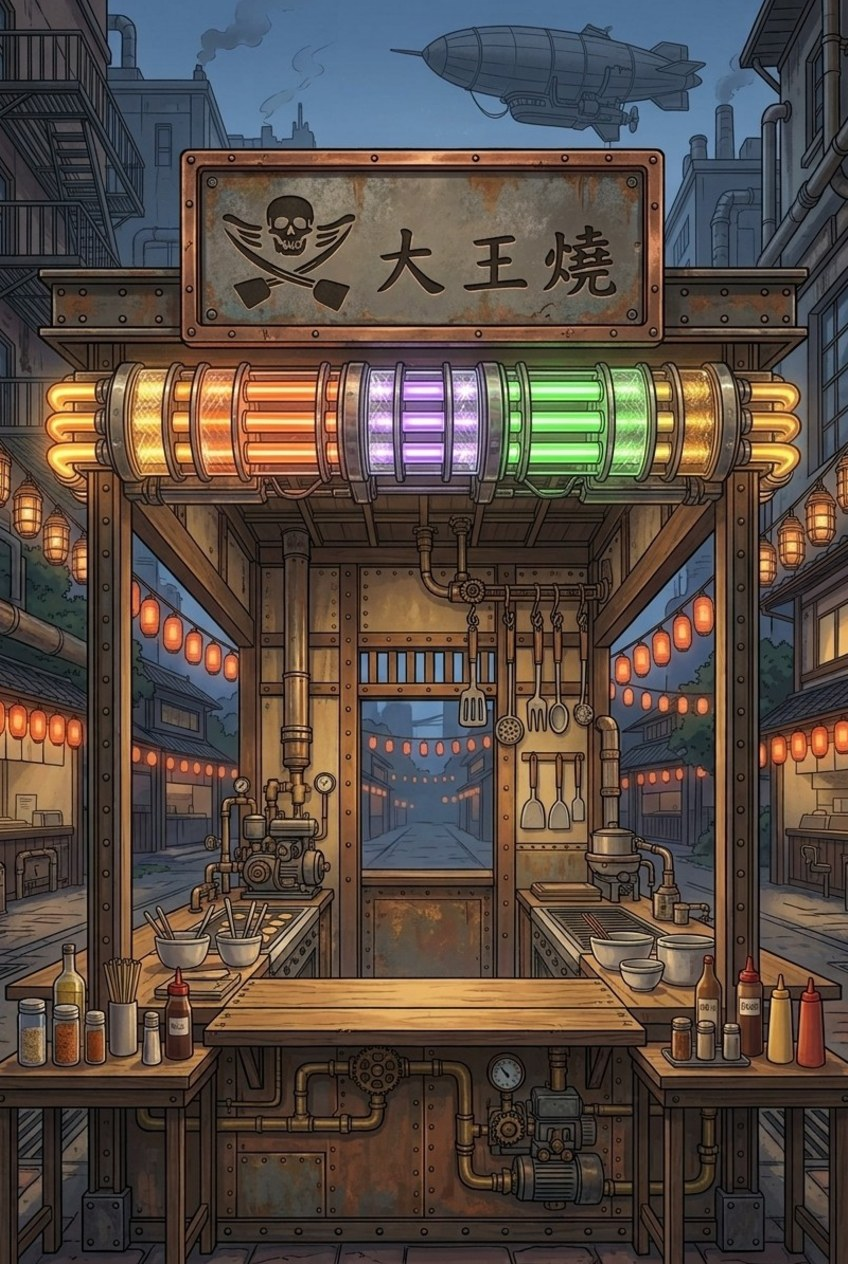
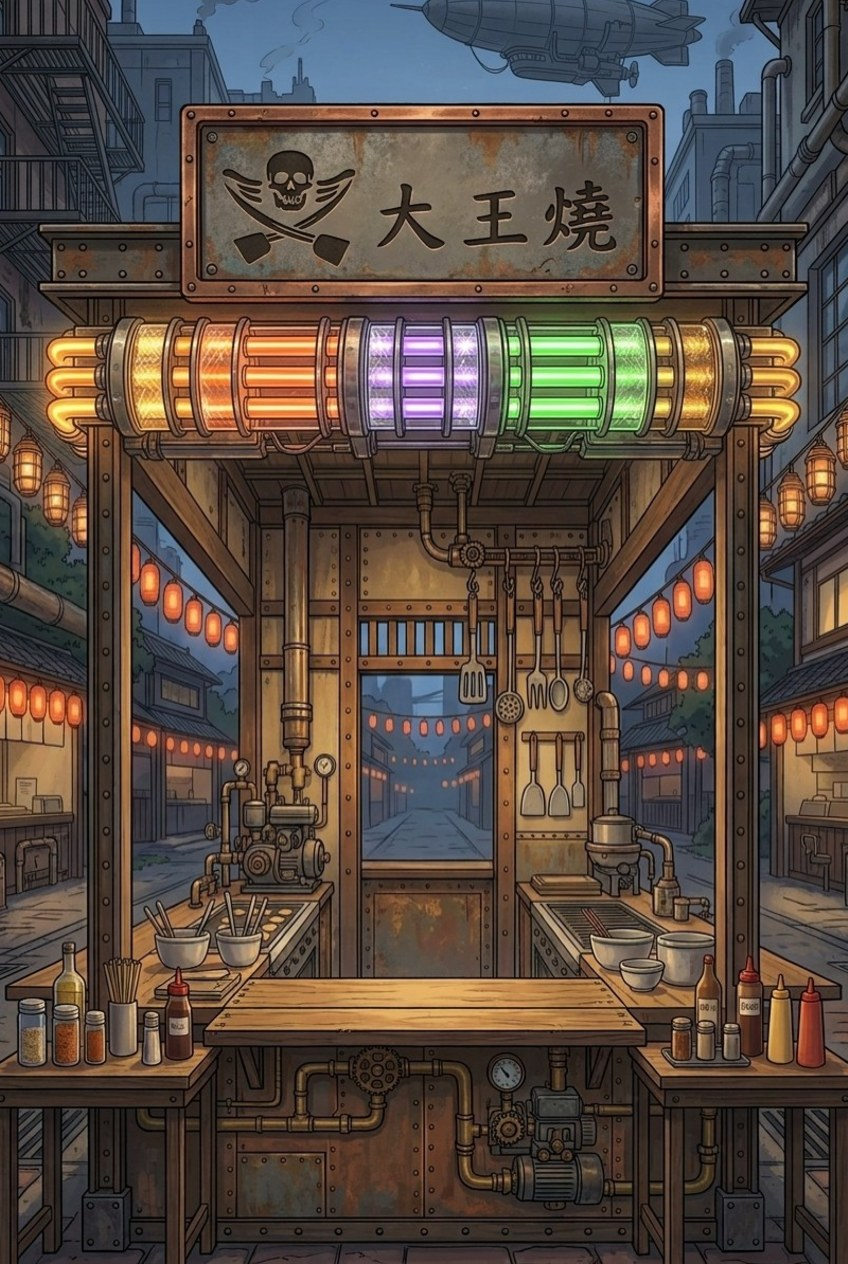
Raise the eaves of the yokai and steampunk stalls
In these two backgrounds the eaves sat lower than in the other stalls,
so the chef's head passed through them when leaning up for an action
(the yokai lanterns even overlapped the idle chef). tools/bg_prep.html
gains a WARP table that remaps them vertically after alignment: the
counter and below stay put, everything above the eaves moves up to the
usual height (yokai 260 px, steampunk 45 px; extra sky at the top is
cropped) and the back wall in between is stretched to fill. Lantern
glow positions are updated to match. Service worker bumped to v63 so
cached images refresh.

diff --git a/js/config.js b/js/config.js
@@ -143,10 +143,11 @@ const BACKGROUNDS = [
     ...lanternRow(['#ff5a30', '#ff8040', '#c060ff', '#e060ff', '#4080ff', '#40d0ff', '#40ff60', '#60ff70', '#ffb040', '#ff5a30'], 410), ...LANTERN_SIDE],
     street: { booths: [['ドクロ', ['#18181c', '#6a1010'], '#101014'], ['メタル', ['#18181c', '#4a1a7a'], '#101014']], cols: ['#ff5a30', '#c060ff', '#4080ff', '#40ff60', '#ffb040'], cage: true, win: '#c070ff', dark: 0.42 } },
   // 浮世妖怪、中華樓閣：招牌與屋頂的構圖和 bg_stall 不同，對齊時只對吧台以下（tools/bg_prep.html 的 FIX）
+  // 浮世妖怪、蒸汽龐克：屋簷原本畫得太低（主角探身會穿過），已分段往上移（tools/bg_prep.html 的 WARP），燈籠座標是調整後的
   { id: 'yokai', name: '浮世妖怪', desc: '天狗、鬼面燈籠的浮世繪夜祭', price: 800, lanterns: [
-    ...[[152, '#ff8a6a'], [228, '#ff5a3a'], [306, '#70d070'], [384, '#5ad0c0'], [462, '#60c0e0'], [540, '#ffd040'], [618, '#5a8ad0'], [696, '#ff4a30']].map(([x, c]) => [x, 605, c]),
-    [72, 262, '#ff7a30', 46], [148, 295, '#ffe0b0', 46], [82, 388, '#ffe0b0', 46], [497, 230, '#ffd8b0', 50], [705, 325, '#ffe0b0', 46], [788, 268, '#ff7a30', 46], [800, 400, '#ffe0b0', 42],
-    [22, 720, '#ff7a30'], [62, 728, '#ff7a30'], [790, 742, '#ff7a30'], [828, 742, '#ff7a30']],
+    ...[[152, '#ff8a6a'], [228, '#ff5a3a'], [306, '#70d070'], [384, '#5ad0c0'], [462, '#60c0e0'], [540, '#ffd040'], [618, '#5a8ad0'], [696, '#ff4a30']].map(([x, c]) => [x, 345, c]),
+    [72, 2, '#ff7a30', 46], [148, 35, '#ffe0b0', 46], [82, 128, '#ffe0b0', 46], [705, 65, '#ffe0b0', 46], [788, 8, '#ff7a30', 46], [800, 140, '#ffe0b0', 42],
+    [22, 465, '#ff7a30'], [62, 482, '#ff7a30'], [790, 511, '#ff7a30'], [828, 511, '#ff7a30']],
     street: { booths: [['ようかい', ['#3a2a5a', '#e8e0c8'], '#1a2a4a'], ['おめん', ['#8a1a1a', '#f0e0c0'], '#2a1a1a']], cols: ['#ff7a30', '#ffe0b0', '#ff5a3a'], win: '#ffb070', dark: 0.32 } },
   { id: 'ice', name: '冰封極光', desc: '結冰的屋台與極光夜空', price: 1000, lanterns: [
     ...lanternRow(['#ff7a30', '#ff7a30', '#ff7a30', '#ff70d0', '#80ff60', '#e080ff', '#ffe060', '#ff7a30', '#ff7a30', '#ff7a30'], 400), ...LANTERN_SIDE.slice(0, 8)],
@@ -162,8 +163,8 @@ const BACKGROUNDS = [
     [8, 470, '#ffd0a0'], [50, 525, '#ff7a30'], [840, 480, '#ffd0a0'], [795, 535, '#ff7a30']],
     street: { booths: [['ぎょうざ', ['#c8321e', '#ffe8a0'], '#7a1a10'], ['ちまき', ['#2a8a5a', '#ffe8a0'], '#7a1a10']], cols: ['#ff6a30', '#ffe0a0', '#ff90c0', '#a0ff90'], win: '#ffb060' } },
   { id: 'steam', name: '蒸汽龐克', desc: '黃銅管線、霓虹燈管與飛艇的機械攤', price: 1000, lanterns: [
-    ...[[90, '#ffb040'], [170, '#ffb040'], [255, '#ff7a30'], [320, '#ff7a30'], [410, '#c070ff'], [450, '#c070ff'], [540, '#40ff60'], [615, '#40ff60'], [690, '#ffb040'], [770, '#ffb040']].map(([x, c]) => [x, 415, c]),
-    [30, 510, '#ffb060'], [55, 540, '#ffb060'], [820, 510, '#ffb060'], [790, 540, '#ffb060']],
+    ...[[90, '#ffb040'], [170, '#ffb040'], [255, '#ff7a30'], [320, '#ff7a30'], [410, '#c070ff'], [450, '#c070ff'], [540, '#40ff60'], [615, '#40ff60'], [690, '#ffb040'], [770, '#ffb040']].map(([x, c]) => [x, 370, c]),
+    [30, 466, '#ffb060'], [55, 498, '#ffb060'], [820, 466, '#ffb060'], [790, 498, '#ffb060']],
     street: { booths: [['ギア', ['#5a4a3a', '#c8a060'], '#3a2a1a'], ['じょうき', ['#3a3a40', '#b87a3a'], '#2a2018']], cols: ['#ffb060'], cage: true, win: '#ffb860', dark: 0.36 } },
 ];
 // ---- 打擊音效包（主選單 → 商店 → 打擊音效）：打中食材時的聲音；音色在 js/audio.js 的 HIT_PACKS ----

diff --git a/tools/bg_prep.html b/tools/bg_prep.html
@@ -18,6 +18,9 @@ const NAMES = ['rock', 'animal', 'zombie', 'pixel', 'shiba', 'arcade', 'metal', 
 const ONLY = new URLSearchParams(location.search).get('only');
 // 招牌、屋頂的位置和 bg_stall 差很多的背景：自動對齊會為了對上招牌把整張圖垂直拉長（變形），改用一般的垂直比例、不位移
 const FIX = { yokai: { sy: 1.0525, ty: 0 }, china: { sy: 1.0525, ty: 0 } };
+// 屋簷畫得比 bg_stall 低的背景：主角處理食材時會往上探身（頭頂約到 y = 460），會穿過屋簷。
+// 對齊後再分段垂直調整：屋簷以上整段往上移（頂端多的天空裁掉）、中間（後牆、窗戶）拉長補上、吧台以下（y 960 以下）不動
+const WARP = { yokai: [[0, -260], [715, 455], [960, 960], [1264, 1264]], steam: [[0, -45], [505, 460], [960, 960], [1264, 1264]] };
 const RW = 848, RH = 1264, K = 4;   // 參考圖尺寸、分析時縮小倍數
 const load = src => new Promise((ok, ng) => { const i = new Image(); i.onload = () => ok(i); i.onerror = ng; i.src = src; });
 const log = s => { document.getElementById('log').innerHTML += s + '<br>'; };
@@ -91,8 +94,14 @@ async function save(canvas, name) {
       }
       X = cx + (X - cx) * f; Y = cy + (Y - cy) * f; DW *= f; DH *= f; out[n].cover = +f.toFixed(3);
     }
-    const c = document.createElement('canvas'); c.width = RW; c.height = RH;
+    let c = document.createElement('canvas'); c.width = RW; c.height = RH;
     const g = c.getContext('2d'); g.imageSmoothingQuality = 'high'; g.drawImage(img, X, Y, DW, DH);
+    if (WARP[n]) {   // 分段垂直調整（屋簷太低的背景）：每一段 [來源 y, 目標 y] 之間線性對應
+      const w = document.createElement('canvas'); w.width = RW; w.height = RH; const wg = w.getContext('2d'); wg.imageSmoothingQuality = 'high';
+      const A = WARP[n];
+      for (let i = 0; i < A.length - 1; i++) { const [s0, t0] = A[i], [s1, t1] = A[i + 1]; wg.drawImage(c, 0, s0, RW, s1 - s0, 0, t0, RW, t1 - t0); }
+      c = w; out[n].warp = A;
+    }
     // 預覽：輸出圖、與 bg_stall 的半透明疊圖
     const card = document.createElement('div'); card.className = 'card';
     const ov = document.createElement('canvas'); ov.width = RW; ov.height = RH; const o = ov.getContext('2d');

diff --git a/sw.js b/sw.js
@@ -2,7 +2,7 @@
 
 // ===== Service Worker：讓遊戲可安裝成 APP、離線也能玩 =====
 // 發佈新版本時把 VERSION 加 1，舊快取會在下次開啟時清掉。
-const VERSION = 'v62';
+const VERSION = 'v63';
 const CACHE = 'daioyaki-' + VERSION;
 const IMAGES = ['bg_stall.jpg', 'team_logo.webp', 'griddle.png', 'button.png', 'great_text.png', 'okonomiyaki.png',
   'chef_idle.png', 'chef_wave.png', 'chef_knife.png', 'chef_spatula.png', 'chef_sauce.png', 'chef_great.png', 'chef_nice.png', 'chef_bad.png', 'chef_cheer.png',
